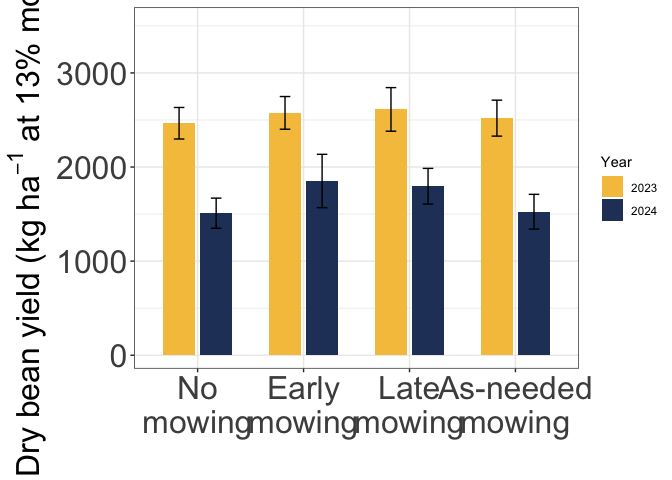
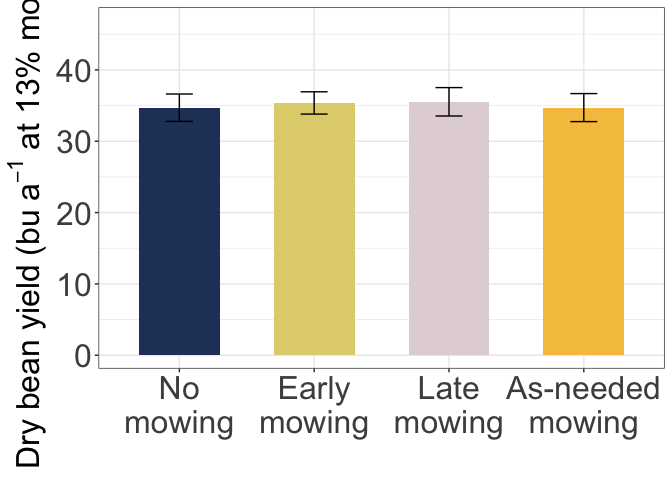
figure changes

diff --git a/rmarkdowns/bean_yield_imt.md b/rmarkdowns/bean_yield_imt.md
@@ -82,7 +82,7 @@ clean_combined <- clean_names(combined_raw) |>
 ``` r
 bean_yield_clean <- clean_combined |>  
   filter(weeds %in% c("SW", "M")) |> # Keep only SW and M microplots
-  filter(location %in% c("FH")) |>
+  filter(location %in% c("FH", "CU")) |>
   filter(!is.na(bean_yield)) |>  # Remove NA values
   filter(is_outlier == FALSE) |>  # Remove outliers
   mutate(
@@ -153,6 +153,70 @@ kable(bean_yield_clean)
 | FH_B1_P403 | 2024 | FH | FH_2024 | NWC | 4 | 403 | M | 23 | 185.37 | 0 | 95.34 | 95.34 | 24 | 242.45 | FALSE | 27.489106 | 1649.3464 | 1848.6699 |
 | FH_B1_P403_SW | 2024 | FH | FH_2024 | NWC | 4 | 403 | SW | 19 | 119.05 | 11.54 | 121.29 | 132.83 | 20 | 183.22 | FALSE | 20.773578 | 1246.4147 | 1397.0439 |
 | FH_B1_P404 | 2024 | FH | FH_2024 | EWC | 4 | 404 | M | 30 | 194.11 | 0 | 45.72 | 45.72 | 24 | 277.00 | FALSE | 31.406403 | 1884.3842 | 2112.1120 |
+| CU_B1_P101 | 2023 | CU | CU_2023 | EWC | 1 | 101 | M | 22 | 91.99 | 9.39 | 20.64 | 30.03 | 19 | 222.00 | FALSE | 25.170474 | 1510.2285 | 1692.7396 |
+| CU_B1_P101_SW | 2023 | CU | CU_2023 | EWC | 1 | 101 | SW | 19 | 71.80 | 22.33 | 19.62 | 41.95 | 16 | 299.00 | FALSE | 33.900774 | 2034.0464 | 2279.8610 |
+| CU_B1_P102 | 2023 | CU | CU_2023 | LWC | 1 | 102 | M | 22 | 83.84 | 7.23 | 14.75 | 21.98 | 22 | 472.00 | FALSE | 53.515603 | 3210.9362 | 3598.9778 |
+| CU_B1_P102_SW | 2023 | CU | CU_2023 | LWC | 1 | 102 | SW | 26 | 81.23 | 13.07 | 9.65 | 22.72 | 17 | 307.00 | FALSE | 34.807818 | 2088.4691 | 2340.8606 |
+| CU_B1_P103 | 2023 | CU | CU_2023 | AWC | 1 | 103 | M | 21 | 109.21 | 6.67 | 11.28 | 17.95 | 25 | 456.00 | FALSE | 51.701515 | 3102.0909 | 3476.9786 |
+| CU_B1_P103_SW | 2023 | CU | CU_2023 | AWC | 1 | 103 | SW | 28 | 152.43 | 10.51 | 3.54 | 14.05 | 22 | 446.00 | FALSE | 50.567710 | 3034.0626 | 3400.7290 |
+| CU_B1_P104 | 2023 | CU | CU_2023 | NWC | 1 | 104 | M | 28 | 122.15 | 5.52 | 21.38 | 26.90 | 18 | 244.00 | FALSE | 27.664846 | 1659.8907 | 1860.4885 |
+| CU_B1_P104_SW | 2023 | CU | CU_2023 | NWC | 1 | 104 | SW | 15 | 78.65 | 18.02 | 50.58 | 68.60 | 21 | 357.00 | FALSE | 40.476844 | 2428.6106 | 2722.1082 |
+| CU_B1_P201 | 2023 | CU | CU_2023 | AWC | 2 | 201 | M | 25 | 152.65 | 6.06 | 0.24 | 6.30 | 18 | 406.00 | FALSE | 46.032489 | 2761.9493 | 3095.7309 |
+| CU_B1_P201_SW | 2023 | CU | CU_2023 | AWC | 2 | 201 | SW | 15 | 52.27 | 20.09 | 4.62 | 24.71 | 19 | 203.00 | FALSE | 23.016244 | 1380.9747 | 1547.8655 |
+| CU_B1_P202 | 2023 | CU | CU_2023 | NWC | 2 | 202 | M | 24 | 137.92 | 3.45 | 14.88 | 18.33 | 17 | 372.00 | FALSE | 42.177552 | 2530.6531 | 2836.4825 |
+| CU_B1_P202_SW | 2023 | CU | CU_2023 | NWC | 2 | 202 | SW | 19 | 70.96 | 16.07 | 27.49 | 43.56 | 19 | 270.00 | FALSE | 30.612739 | 1836.7643 | 2058.7373 |
+| CU_B1_P203 | 2023 | CU | CU_2023 | EWC | 2 | 203 | M | 19 | 98.47 | 3.53 | 9.9700000000000006 | 13.50 | 18 | 418.00 | FALSE | 47.393055 | 2843.5833 | 3187.2304 |
+| CU_B1_P203_SW | 2023 | CU | CU_2023 | EWC | 2 | 203 | SW | 15 | 28.82 | 43.18 | 50.41 | 93.59 | 13 | 297.00 | FALSE | 33.674013 | 2020.4408 | 2264.6110 |
+| CU_B1_P204 | 2023 | CU | CU_2023 | LWC | 2 | 204 | M | 22 | 123.71 | 13.25 | 2.37 | 15.62 | 18 | 440.00 | FALSE | 49.887427 | 2993.2456 | 3354.9793 |
+| CU_B1_P204_SW | 2023 | CU | CU_2023 | LWC | 2 | 204 | SW | 18 | 92.96 | 21.66 | 20.350000000000001 | 42.01 | 21 | 394.00 | FALSE | 44.671923 | 2680.3154 | 3004.2315 |
+| CU_B1_P301 | 2023 | CU | CU_2023 | NWC | 3 | 301 | M | 25 | 189.87 | 2.35 | 2.56 | 4.91 | 21 | 364.00 | FALSE | 41.270507 | 2476.2304 | 2775.4829 |
+| CU_B1_P301_SW | 2023 | CU | CU_2023 | NWC | 3 | 301 | SW | 25 | 72.63 | 19.84 | 35.159999999999997 | 55.00 | 20 | 280.00 | FALSE | 31.746544 | 1904.7927 | 2134.9868 |
+| CU_B1_P302 | 2023 | CU | CU_2023 | EWC | 3 | 302 | M | 22 | 106.52 | 9.2799999999999994 | 22.69 | 31.97 | 20 | 303.00 | FALSE | 34.354296 | 2061.2578 | 2310.3608 |
+| CU_B1_P302_SW | 2023 | CU | CU_2023 | EWC | 3 | 302 | SW | 28 | 108.71 | 20.41 | 35.78 | 56.19 | 16 | 288.00 | FALSE | 32.653588 | 1959.2153 | 2195.9865 |
+| CU_B1_P303 | 2023 | CU | CU_2023 | LWC | 3 | 303 | M | 19 | 123.60 | 0.7 | 3.05 | 3.75 | 23 | 445.00 | FALSE | 50.454329 | 3027.2597 | 3393.1041 |
+| CU_B1_P303_SW | 2023 | CU | CU_2023 | LWC | 3 | 303 | SW | 15 | 74.73 | 17.260000000000002 | 20.399999999999999 | 37.66 | 15 | 236.00 | FALSE | 26.757801 | 1605.4681 | 1799.4889 |
+| CU_B1_P304 | 2023 | CU | CU_2023 | AWC | 3 | 304 | M | 27 | 115.82 | 2.0499999999999998 | 7.62 | 9.67 | 20 | 418.00 | FALSE | 47.393055 | 2843.5833 | 3187.2304 |
+| CU_B1_P304_SW | 2023 | CU | CU_2023 | AWC | 3 | 304 | SW | 15 | 150.55 | 16.03 | 6.91 | 22.94 | 21 | 373.00 | FALSE | 42.290932 | 2537.4559 | 2844.1075 |
+| CU_B1_P401 | 2023 | CU | CU_2023 | LWC | 4 | 401 | M | 25 | 146.13 | 9.11 | 14.5 | 23.61 | 15 | 372.00 | FALSE | 42.177552 | 2530.6531 | 2836.4825 |
+| CU_B1_P401_SW | 2023 | CU | CU_2023 | LWC | 4 | 401 | SW | 23 | 86.23 | 5.84 | 4.32 | 10.16 | 19 | 299.00 | FALSE | 33.900774 | 2034.0464 | 2279.8610 |
+| CU_B1_P402 | 2023 | CU | CU_2023 | AWC | 4 | 402 | M | 21 | 79.72 | 10.57 | 40.96 | 51.53 | 20 | 333.00 | FALSE | 37.755711 | 2265.3427 | 2539.1094 |
+| CU_B1_P402_SW | 2023 | CU | CU_2023 | AWC | 4 | 402 | SW | 18 | 92.61 | 45.45 | 3.4 | 48.85 | 11 | 222.00 | FALSE | 25.170474 | 1510.2285 | 1692.7396 |
+| CU_B1_P403 | 2023 | CU | CU_2023 | NWC | 4 | 403 | M | 19 | 85.78 | 0.05 | 31.06 | 31.11 | 17 | 327.00 | FALSE | 37.075428 | 2224.5257 | 2493.3596 |
+| CU_B1_P403_SW | 2023 | CU | CU_2023 | NWC | 4 | 403 | SW | 19 | 61.73 | 11.63 | 38.799999999999997 | 50.43 | 23.5 | 253.00 | FALSE | 28.685270 | 1721.1162 | 1929.1131 |
+| CU_B1_P404 | 2023 | CU | CU_2023 | EWC | 4 | 404 | M | 22 | 100.60 | 0.65 | 4.96 | 5.61 | 26.5 | 317.00 | FALSE | 35.941623 | 2156.4974 | 2417.1101 |
+| CU_B1_P404_SW | 2023 | CU | CU_2023 | EWC | 4 | 404 | SW | 21 | 62.23 | 35.43 | 45.86 | 81.29 | 16 | 252.00 | FALSE | 28.571890 | 1714.3134 | 1921.4882 |
+| CU_B1_P101 | 2024 | CU | CU_2024 | EWC | 1 | 101 | M | 21 | 194.24 | 0 | 0.1 | 0.10 | 23 | 424.37 | FALSE | 48.115289 | 2886.9173 | 3235.8013 |
+| CU_B1_P101_SW | 2024 | CU | CU_2024 | EWC | 1 | 101 | SW | 22 | 187.31 | 4.25 | 25.47 | 29.72 | 22 | 347.64 | FALSE | 39.415602 | 2364.9361 | 2650.7387 |
+| CU_B1_P102 | 2024 | CU | CU_2024 | LWC | 1 | 102 | M | 23 | 260.63 | 0.31 | 3.43 | 3.74 | 21 | 449.12 | FALSE | 50.921457 | 3055.2874 | 3424.5189 |
+| CU_B1_P102_SW | 2024 | CU | CU_2024 | LWC | 1 | 102 | SW | 22 | 264.81 | 2.89 | 13.44 | 16.33 | 19 | 367.12 | FALSE | 41.624255 | 2497.4553 | 2799.2727 |
+| CU_B1_P103 | 2024 | CU | CU_2024 | AWC | 1 | 103 | M | 24 | 220.66 | 2.66 | 11.82 | 14.48 | 23 | 487.22 | FALSE | 55.241254 | 3314.4753 | 3715.0296 |
+| CU_B1_P103_SW | 2024 | CU | CU_2024 | AWC | 1 | 103 | SW | 31 | 196.63 | 0.23 | 27.51 | 27.74 | 21 | 369.09 | FALSE | 41.847614 | 2510.8569 | 2814.2939 |
+| CU_B1_P104 | 2024 | CU | CU_2024 | NWC | 1 | 104 | M | 21 | 262.91 | 0 | 4.88 | 4.88 | 24 | 426.38 | FALSE | 48.343184 | 2900.5910 | 3251.1275 |
+| CU_B1_P104_SW | 2024 | CU | CU_2024 | NWC | 1 | 104 | SW | 25 | 246.26 | 0.31 | 29.28 | 29.59 | 24 | 491.50 | FALSE | 55.726523 | 3343.5914 | 3747.6644 |
+| CU_B1_P201 | 2024 | CU | CU_2024 | AWC | 2 | 201 | M | 24 | 232.50 | 3.27 | 5.44 | 8.71 | 22 | 381.08 | FALSE | 43.207047 | 2592.4228 | 2905.7171 |
+| CU_B1_P201_SW | 2024 | CU | CU_2024 | AWC | 2 | 201 | SW | 18 | 338.57 | 0 | 6.73 | 6.73 | 17 | 338.95 | FALSE | 38.430326 | 2305.8195 | 2584.4778 |
+| CU_B1_P202 | 2024 | CU | CU_2024 | NWC | 2 | 202 | M | 23 | 191.35 | 0 | 0 | 0.00 | 21 | 464.46 | FALSE | 52.660714 | 3159.6428 | 3541.4857 |
+| CU_B1_P202_SW | 2024 | CU | CU_2024 | NWC | 2 | 202 | SW | 19 | 202.65 | 1.69 | 53.08 | 54.77 | 21 | 428.99 | FALSE | 48.639107 | 2918.3464 | 3271.0286 |
+| CU_B1_P203 | 2024 | CU | CU_2024 | EWC | 2 | 203 | M | 27 | 219.71 | 0 | 0.57999999999999996 | 0.58 | 25 | 426.92 | FALSE | 48.404409 | 2904.2646 | 3255.2449 |
+| CU_B1_P203_SW | 2024 | CU | CU_2024 | EWC | 2 | 203 | SW | 19 | 213.33 | 2.29 | 23.94 | 26.23 | 23 | 415.66 | FALSE | 47.127745 | 2827.6647 | 3169.3880 |
+| CU_B1_P204 | 2024 | CU | CU_2024 | LWC | 2 | 204 | M | 21 | 259.74 | 0.61 | 1.28 | 1.89 | 18 | 336.90 | FALSE | 38.197896 | 2291.8737 | 2568.8467 |
+| CU_B1_P204_SW | 2024 | CU | CU_2024 | LWC | 2 | 204 | SW | 19 | 211.28 | 2.68 | 29.02 | 31.70 | 21 | 308.24 | FALSE | 34.948410 | 2096.9046 | 2350.3155 |
+| CU_B1_P301 | 2024 | CU | CU_2024 | NWC | 3 | 301 | M | 20 | 335.38 | 0.05 | 8.24 | 8.29 | 25 | 404.96 | FALSE | 45.914573 | 2754.8744 | 3087.8010 |
+| CU_B1_P301_SW | 2024 | CU | CU_2024 | NWC | 3 | 301 | SW | 26 | 104.52 | 6.86 | 43.95 | 50.81 | 20 | 380.83 | FALSE | 43.178702 | 2590.7221 | 2903.8109 |
+| CU_B1_P302 | 2024 | CU | CU_2024 | EWC | 3 | 302 | M | 23 | 270.00 | 0 | 10.48 | 10.48 | 19 | 243.14 | FALSE | 27.567338 | 1654.0403 | 1853.9311 |
+| CU_B1_P302_SW | 2024 | CU | CU_2024 | EWC | 3 | 302 | SW | 19 | 142.35 | 6.13 | 53.1 | 59.23 | 16 | 280.79 | FALSE | 31.836115 | 1910.1669 | 2141.0106 |
+| CU_B1_P303 | 2024 | CU | CU_2024 | LWC | 3 | 303 | M | 20 | 161.83 | 7.83 | 8.23 | 16.06 | 16 | 278.50 | FALSE | 31.576473 | 1894.5884 | 2123.5494 |
+| CU_B1_P303_SW | 2024 | CU | CU_2024 | LWC | 3 | 303 | SW | 26 | 175.65 | 6.05 | 34.92 | 40.97 | 18 | 226.56 | FALSE | 25.687490 | 1541.2494 | 1727.5094 |
+| CU_B1_P304 | 2024 | CU | CU_2024 | AWC | 3 | 304 | M | 23 | 241.56 | 0.87 | 4.0999999999999996 | 4.97 | 25 | 285.08 | FALSE | 32.322517 | 1939.3510 | 2173.7216 |
+| CU_B1_P304_SW | 2024 | CU | CU_2024 | AWC | 3 | 304 | SW | 19 | 139.25 | 12.91 | 7.92 | 20.83 | 24 | 248.29 | FALSE | 28.151248 | 1689.0749 | 1893.1996 |
+| CU_B1_P401 | 2024 | CU | CU_2024 | LWC | 4 | 401 | M | 21 | 221.18 | 3.33 | 12.52 | 15.85 | 19 | 177.79 | FALSE | 20.157922 | 1209.4753 | 1355.6404 |
+| CU_B1_P401_SW | 2024 | CU | CU_2024 | LWC | 4 | 401 | SW | 24 | 119.84 | 4.67 | 55.67 | 60.34 | 15 | 137.37 | FALSE | 15.575081 | 934.5049 | 1047.4398 |
+| CU_B1_P402 | 2024 | CU | CU_2024 | AWC | 4 | 402 | M | 17 | 164.73 | 0.06 | 5.29 | 5.35 | 24 | 292.51 | FALSE | 33.164934 | 1989.8961 | 2230.3750 |
+| CU_B1_P402_SW | 2024 | CU | CU_2024 | AWC | 4 | 402 | SW | 22 | 207.86 | 0.05 | 6.98 | 7.03 | 28 | 295.52 | FALSE | 33.506210 | 2010.3726 | 2253.3261 |
+| CU_B1_P403 | 2024 | CU | CU_2024 | NWC | 4 | 403 | M | 20 | 245.96 | 0 | 1.91 | 1.91 | 23 | 227.20 | FALSE | 25.760053 | 1545.6032 | 1732.3893 |
+| CU_B1_P403_SW | 2024 | CU | CU_2024 | NWC | 4 | 403 | SW | 19 | 155.42 | 2.74 | 64.849999999999994 | 67.59 | 26 | 223.91 | FALSE | 25.387031 | 1523.2219 | 1707.3032 |
+| CU_B1_P404 | 2024 | CU | CU_2024 | EWC | 4 | 404 | M | 24 | 189.20 | 0 | 4.7699999999999996 | 4.77 | 23 | 313.45 | FALSE | 35.539122 | 2132.3473 | 2390.0415 |
+| CU_B1_P404_SW | 2024 | CU | CU_2024 | EWC | 4 | 404 | SW | 25 | 82.14 | 6.43 | 53.68 | 60.11 | 21 | 281.95 | FALSE | 31.967636 | 1918.0582 | 2149.8555 |
 
 # Model testing
 
@@ -165,7 +229,7 @@ Fischer. Fisher is bogus apparently.
 ``` r
 # This is better for providing generalizatins and reccomendations. 
 
-random <- lmer(bean_yield_adj_kg_ha ~ mowing*weeds + (1|year) + (1|block) + (1|block:mowing), data = bean_yield_clean)
+random <- lmer(   bean_yield_adj_bu_acre ~ mowing*weeds + (1|site_year) + (1|site_year:block)+  (1|site_year:block:mowing), data = bean_yield_clean)
 
 
 #tyler whats up with uri being random? location*year takes into accoutn if we are concerned about only these years and locations, everything is relative to the ten means from this experiment
@@ -186,7 +250,7 @@ simulateResiduals(random,plot = TRUE) # Residuals and normality look good
 
     ## Object of Class DHARMa with simulated residuals based on 250 simulations with refit = FALSE . See ?DHARMa::simulateResiduals for help. 
     ##  
-    ## Scaled residual values: 0.672 0.384 0.288 0.176 0.436 0.452 0.624 0.608 0.516 0.9 0.448 0.668 0.88 0.828 0.696 0.668 0.928 0.736 0.588 0.892 ...
+    ## Scaled residual values: 0.72 0.248 0.232 0.184 0.328 0.344 0.548 0.456 0.352 0.848 0.304 0.444 0.872 0.728 0.616 0.664 0.896 0.62 0.58 0.86 ...
 
 ``` r
 check_model(random)
@@ -209,9 +273,9 @@ check_model(random)
 
 |     | model term   | df1 |   df2 | F.ratio |   p.value |
 |:----|:-------------|----:|------:|--------:|----------:|
-| 1   | mowing       |   3 |  7.72 |   1.166 | 0.3828906 |
-| 3   | weeds        |   1 | 38.54 |  13.911 | 0.0006157 |
-| 2   | mowing:weeds |   3 | 37.20 |   0.261 | 0.8531380 |
+| 1   | mowing       |   3 | 42.23 |   0.073 | 0.9742231 |
+| 3   | weeds        |   1 | 57.24 |  29.290 | 0.0000013 |
+| 2   | mowing:weeds |   3 | 55.38 |   1.009 | 0.3958540 |
 
 #### Anova table
 
@@ -222,12 +286,12 @@ Anova(random, type = 3)
 
     ## Analysis of Deviance Table (Type III Wald chisquare tests)
     ## 
-    ## Response: bean_yield_adj_kg_ha
-    ##                Chisq Df Pr(>Chisq)    
-    ## (Intercept)  21.6267  1  3.312e-06 ***
-    ## mowing        2.3060  3    0.51138    
-    ## weeds         5.9713  1    0.01454 *  
-    ## mowing:weeds  0.7887  3    0.85216    
+    ## Response: bean_yield_adj_bu_acre
+    ##                 Chisq Df Pr(>Chisq)    
+    ## (Intercept)  106.4035  1  < 2.2e-16 ***
+    ## mowing         1.8836  3  0.5969034    
+    ## weeds         13.4020  1  0.0002514 ***
+    ## mowing:weeds   3.0299  3  0.3870430    
     ## ---
     ## Signif. codes:  0 '***' 0.001 '**' 0.01 '*' 0.05 '.' 0.1 ' ' 1
 
@@ -245,11 +309,11 @@ cld_mowing_fisher <-cld(emmeans(random, ~  mowing , type = "response"), Letters 
 cld_mowing_fisher
 ```
 
-    ##  mowing emmean  SE   df lower.CL upper.CL .group
-    ##  LWC      2237 480 1.33    -1232     5707  a    
-    ##  EWC      2157 480 1.34    -1273     5587  a    
-    ##  AWC      2022 477 1.31    -1520     5564  a    
-    ##  NWC      1976 478 1.32    -1532     5483  a    
+    ##  mowing emmean   SE   df lower.CL upper.CL .group
+    ##  LWC      35.0 3.61 3.89     24.9     45.2  a    
+    ##  AWC      34.7 3.59 3.79     24.5     44.9  a    
+    ##  NWC      34.3 3.59 3.82     24.1     44.5  a    
+    ##  EWC      34.2 3.61 3.89     24.0     44.3  a    
     ## 
     ## Results are averaged over the levels of: weeds 
     ## Degrees-of-freedom method: kenward-roger 
@@ -273,9 +337,9 @@ cld_weeds_fisher <-cld(emmeans(random, ~  weeds , type = "response"), Letters = 
 cld_weeds_fisher
 ```
 
-    ##  weeds emmean  SE   df lower.CL upper.CL .group
-    ##  M       2299 472 1.25    -1489     6086  a    
-    ##  SW      1897 472 1.25    -1886     5681   b   
+    ##  weeds emmean   SE   df lower.CL upper.CL .group
+    ##  M       37.5 3.42 3.15     26.9     48.1  a    
+    ##  SW      31.6 3.43 3.16     21.0     42.2   b   
     ## 
     ## Results are averaged over the levels of: mowing 
     ## Degrees-of-freedom method: kenward-roger 
@@ -290,7 +354,7 @@ cld_weeds_fisher
 ``` r
 bean_yield_clean |> 
   left_join(cld_mowing_fisher) |> 
-  ggplot(aes(x = factor(mowing, levels = c("NWC", "EWC", "LWC", "AWC")), y = bean_yield_adj_kg_ha, fill = mowing)) +
+  ggplot(aes(x = factor(mowing, levels = c("NWC", "EWC", "LWC", "AWC")), y = bean_yield_adj_bu_acre, fill = mowing)) +
   stat_summary(geom = "bar", fun = "mean", width = 0.7) +
   stat_summary(geom = "errorbar", fun.data = "mean_se", width = 0.2) +
   #stat_summary(geom="text", fun = "MeanPlusSe", aes(label= trimws(.group)),size=6.5,vjust=-0.5) +
@@ -300,7 +364,7 @@ bean_yield_clean |>
 #geom_text(aes(label = trimws(.group), y = response + (SE + 30)), size = 7) +
   labs(
     x = "",
-       y = expression(paste("Dry bean yield (", kg~ha^{-1}, " at 13% moisture)")),
+       y = expression(paste("Dry bean yield (", bu~a^{-1}, " at 13% moisture)")),
     #title = str_c("Influence of interrow weed control on weed biomass"),
     subtitle = expression(italic("Not signficant"))) +
   
@@ -332,21 +396,19 @@ ggsave("bean_yield_mowing_kgha.png", width = 10, height = 8, dpi = 300)
 bean_yield_clean |> 
   left_join(cld_mowing_fisher) |> 
   ggplot(aes(x = factor(mowing, levels = c("NWC", "EWC", "LWC", "AWC")), 
-             y = bean_yield_adj_kg_ha, fill = factor(year))) +  # Fill by year
-  stat_summary(geom = "bar", fun = "mean", width = 0.6, position = position_dodge(width = 0.7)) +
-  stat_summary(geom = "errorbar", fun.data = "mean_se", width = 0.2, position = position_dodge(width = 0.7)) +
+             y = bean_yield_adj_bu_acre, fill = mowing)) + 
+  stat_summary(geom = "bar", fun = "mean", width = 0.6) +
+  stat_summary(geom = "errorbar", fun.data = "mean_se", width = 0.2) +
   labs(
     x = "",
-    y = expression(paste("Dry bean yield (", kg~ha^{-1}, " at 13% moisture)")),
-    fill = "Year",  # Legend title
-    #subtitle = expression(italic("Not significant"))
+    y = expression(paste("Dry bean yield (", bu~a^{-1}, " at 13% moisture)"))
   ) +
   scale_x_discrete(labels = c("No\nmowing", "Early\nmowing", "Late\nmowing", "As-needed\nmowing")) +
   scale_y_continuous(expand = expansion(mult = c(0.05, 0.3))) +
-  scale_fill_WB_d(name = "BlueberriesForSal", direction = 1) +  # Use wren's bookshelf colors
+  scale_fill_WB_d(name = "BlueberriesForSal", direction = 1) +  
   theme_bw() +
   theme(
-    legend.position = "right",
+    legend.position = "none",
     strip.background = element_blank(),
     strip.text = element_text(face = "bold", size = 12),
     axis.title = element_text(size = 24),
@@ -367,17 +429,17 @@ ggsave("bean_yield_mowing_kgha_FH.png", width = 10, height = 8, dpi = 300)
 ``` r
 bean_yield_clean |> 
   left_join(cld_weeds_fisher) |> 
-  ggplot(aes(x = weeds, y = bean_yield_adj_kg_ha, fill = weeds)) +  # Fill added
+  ggplot(aes(x = weeds, y = bean_yield_adj_bu_acre, fill = weeds)) +  # Fill added
   stat_summary(geom = "bar", fun = "mean", width = 0.6, position = position_dodge(width = 0.7)) +
   stat_summary(geom = "errorbar", fun.data = "mean_se", width = 0.2, position = position_dodge(width = 0.7)) +
   stat_summary(geom = "text", fun = "MeanPlusSe", aes(label = trimws(.group)), 
                size = 6.5, vjust = -0.5, position = position_dodge(width = 0.7)) +
   labs(
     x = "",
-    y = expression(paste("Dry bean yield (", kg~ha^{-1}, " at 13% moisture)")),
+    y = expression(paste("Dry bean yield (", bu~a^{-1}, " at 13% moisture)")),
     fill = "Weed Treatment"
   ) +
-  scale_x_discrete(labels = c("Ambient weeds", "Surrogate weeds")) +
+  scale_x_discrete(labels = c("Ambient weeds", "Surrogate + ambient weeds")) +
   scale_y_continuous(expand = expansion(mult = c(0.05, 0.3))) +
   scale_fill_WB_d(name = "BlueberriesForSal", direction = 1) +  # Ensure correct function use
   theme_bw() +
